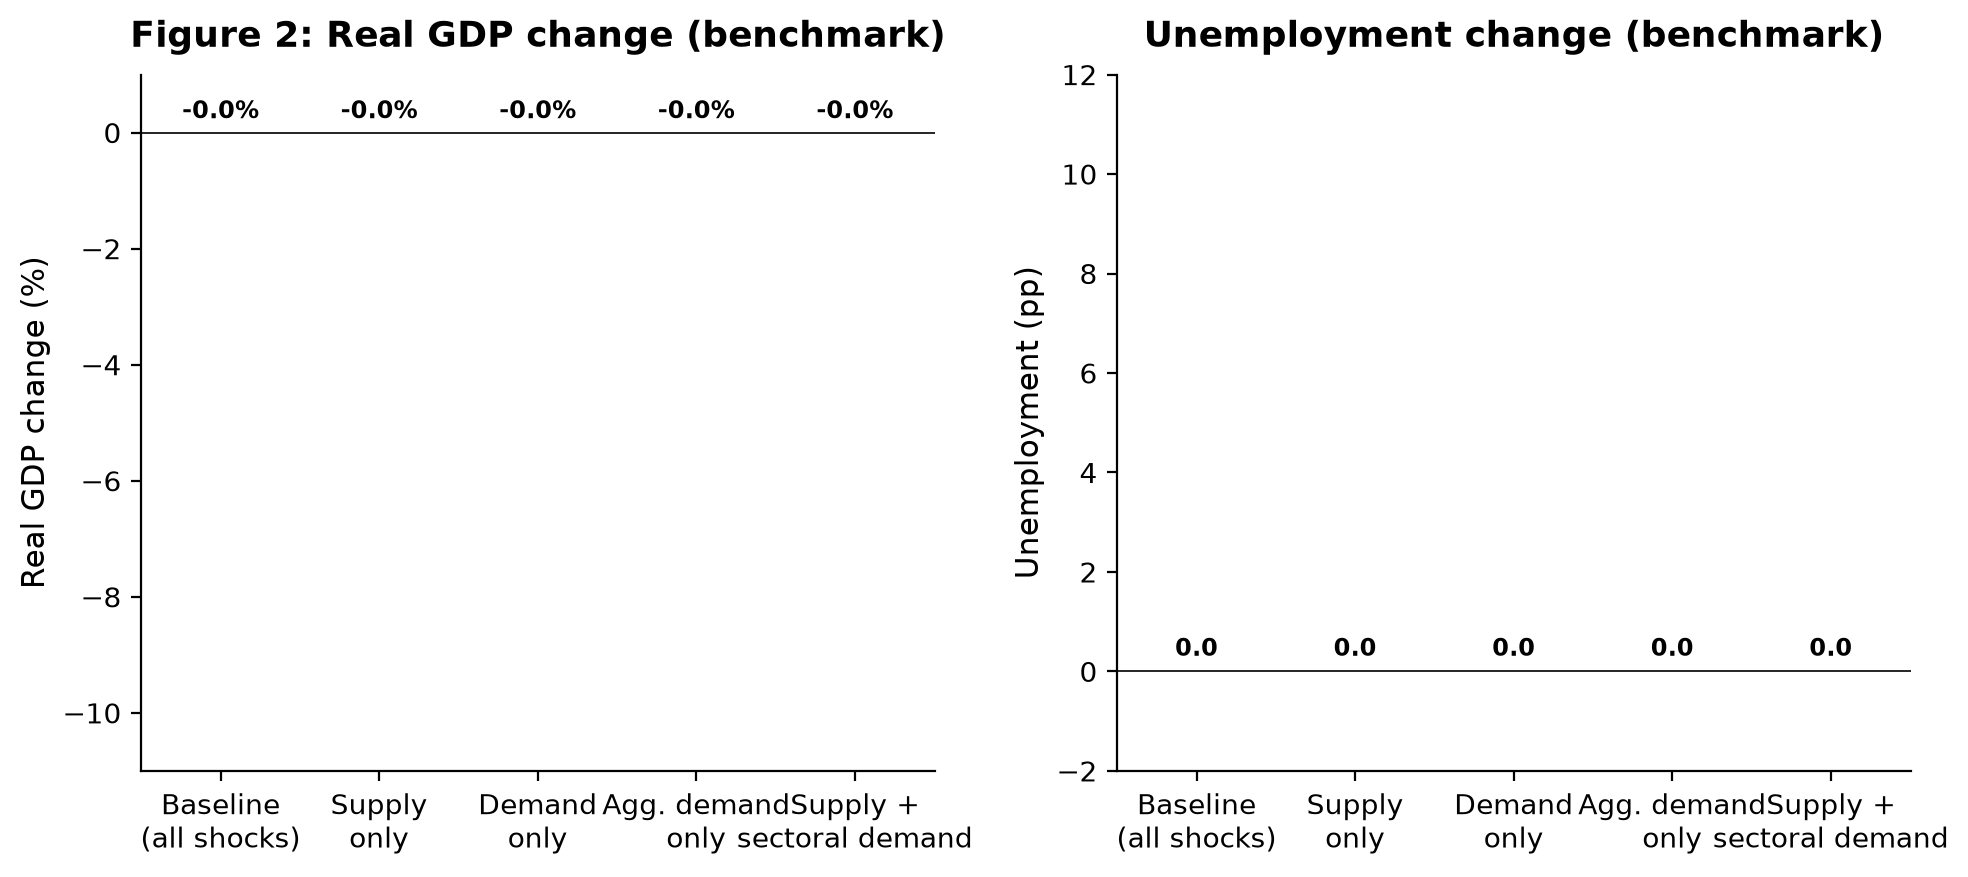
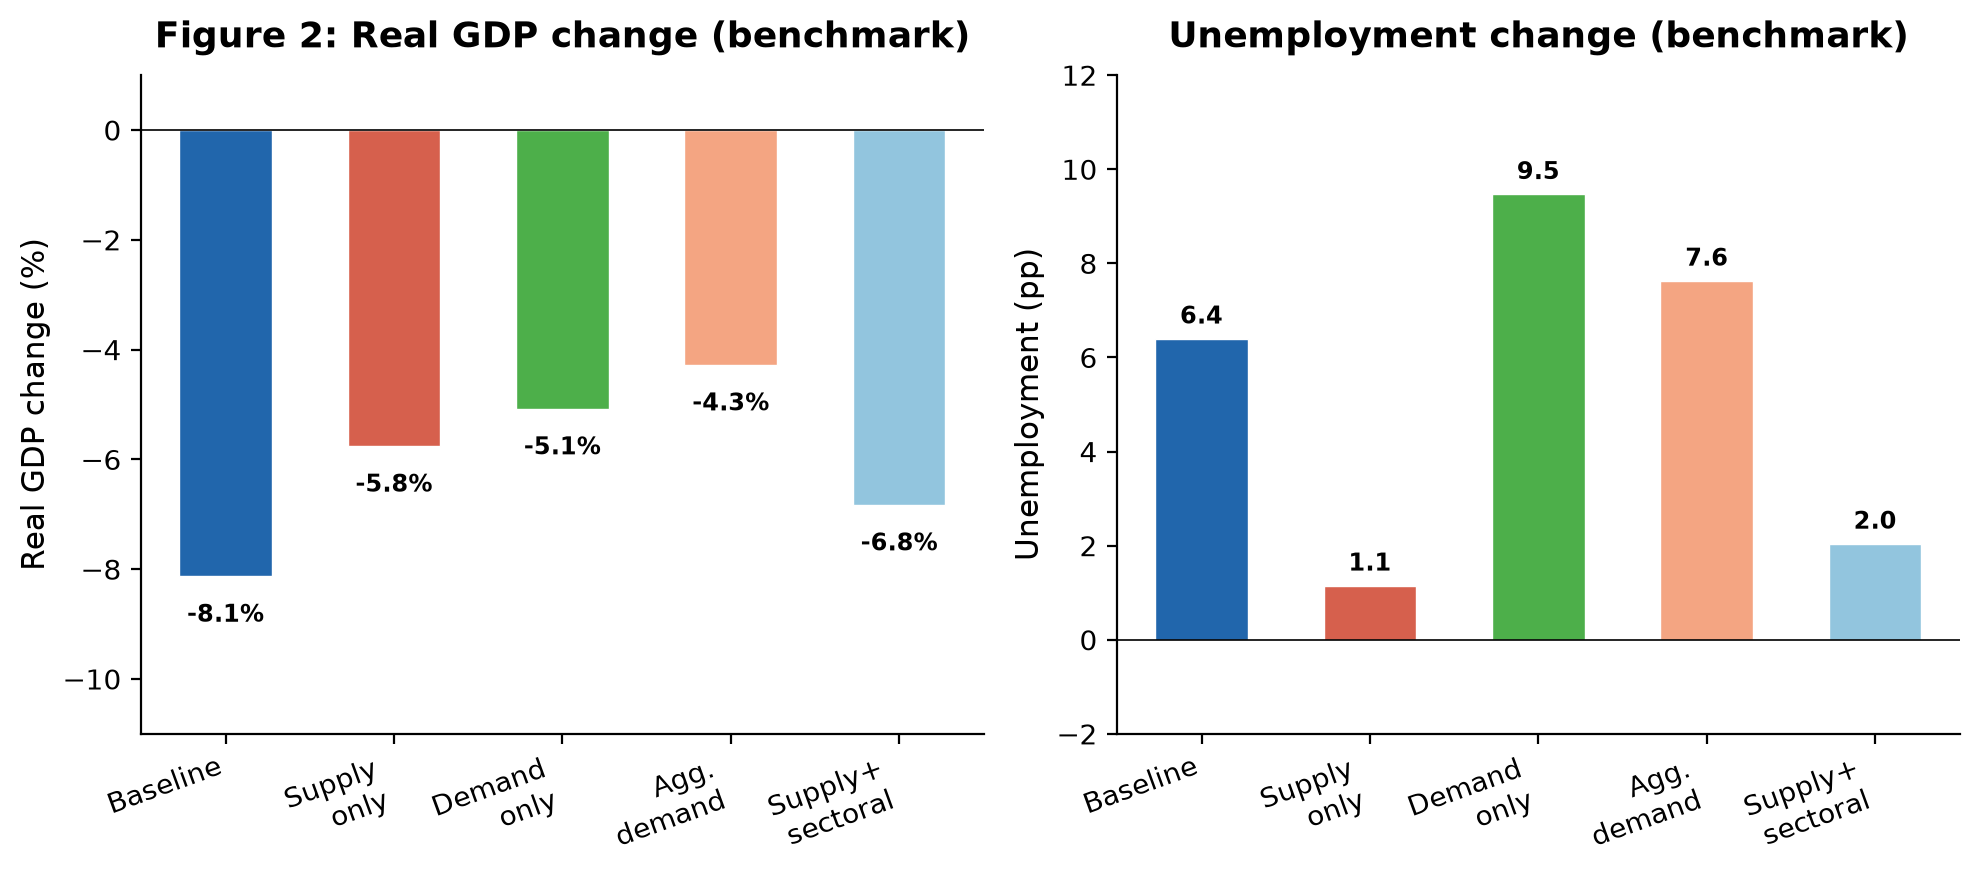
final steps

diff --git a/bf_replication2/src/generate_figures.py b/bf_replication2/src/generate_figures.py
@@ -45,8 +45,8 @@ summary_loop1 = pd.read_csv(DATA / 'summary_loop1.csv')
 summary_htm   = pd.read_csv(DATA / 'summary_loop2_htm.csv')
 baseline      = pd.read_csv(DATA / 'baseline_fit.csv')
 
-SHOCK_LABELS = ['Baseline\n(all shocks)', 'Supply\nonly', 'Demand\nonly',
-                'Agg. demand\nonly', 'Supply +\nsectoral demand']
+SHOCK_LABELS = ['Baseline', 'Supply\nonly', 'Demand\nonly',
+                'Agg.\ndemand', 'Supply+\nsectoral']
 
 print("✓ Data loaded")
 print(f"  Loop1: {summary_loop1.shape[0]} shock types")
@@ -80,28 +80,30 @@ def style_bar_ax(ax, title, ylabel='Real GDP change (%)', ylim=None):
 def fig2_benchmark():
     fig, (ax1, ax2) = plt.subplots(1, 2, figsize=(10, 4.5))
     
-    rgdp = summary_loop1['RGDP_benchmark'].values * -1  # back to +ve loss
+    rgdp = summary_loop1['RGDP_benchmark'].values  # negative = decline
     unemp = summary_loop1['Unemp_benchmark'].values
     
     x = np.arange(5)
     width = 0.55
     
-    # RGDP bar chart
+    # RGDP bar chart (negative = decline, faithful to B&F)
     bars = ax1.bar(x, rgdp, width, color=PALETTE, edgecolor='white', linewidth=0.5)
     ax1.set_xticks(x)
-    ax1.set_xticklabels(SHOCK_LABELS, fontsize=9)
+    ax1.set_xticklabels(SHOCK_LABELS, fontsize=9, rotation=20, ha='right')
     style_bar_ax(ax1, 'Figure 2: Real GDP change (benchmark)', ylim=(-11, 1))
     
-    # Value labels on bars
+    # Value labels on bars (sign-aware: below tip for declines)
     for bar, val in zip(bars, rgdp):
-        ax1.text(bar.get_x() + bar.get_width()/2,
-                bar.get_height() + 0.15,
-                f'{val:.1f}%', ha='center', va='bottom', fontsize=8.5, fontweight='bold')
+        h = bar.get_height()
+        off = 0.15 if h >= 0 else -0.5
+        va = 'bottom' if h >= 0 else 'top'
+        ax1.text(bar.get_x() + bar.get_width()/2, h + off,
+                f'{val:.1f}%', ha='center', va=va, fontsize=8.5, fontweight='bold')
     
     # Unemployment chart
     ax2.bar(x, unemp, width, color=PALETTE, edgecolor='white', linewidth=0.5)
     ax2.set_xticks(x)
-    ax2.set_xticklabels(SHOCK_LABELS, fontsize=9)
+    ax2.set_xticklabels(SHOCK_LABELS, fontsize=9, rotation=20, ha='right')
     style_bar_ax(ax2, 'Unemployment change (benchmark)',
                  ylabel='Unemployment (pp)', ylim=(-2, 12))
     for i, v in enumerate(unemp):
@@ -119,7 +121,7 @@ def fig2_benchmark():
 def fig3_cd():
     fig, (ax1, ax2) = plt.subplots(1, 2, figsize=(10, 4.5))
     
-    rgdp = summary_loop1['RGDP_cd'].values * -1
+    rgdp = summary_loop1['RGDP_cd'].values  # negative = decline
     unemp = summary_loop1['Unemp_cd'].values
     
     x = np.arange(5)
@@ -127,18 +129,20 @@ def fig3_cd():
     
     bars = ax1.bar(x, rgdp, width, color=PALETTE, edgecolor='white', linewidth=0.5)
     ax1.set_xticks(x)
-    ax1.set_xticklabels(SHOCK_LABELS, fontsize=9)
+    ax1.set_xticklabels(SHOCK_LABELS, fontsize=9, rotation=20, ha='right')
     style_bar_ax(ax1, 'Figure 3: Real GDP change (Cobb–Douglas)', ylim=(-11, 1))
     for bar, val in zip(bars, rgdp):
-        ax1.text(bar.get_x() + bar.get_width()/2,
-                bar.get_height() + 0.15,
-                f'{val:.1f}%', ha='center', va='bottom', fontsize=8.5, fontweight='bold')
+        h = bar.get_height()
+        off = 0.15 if h >= 0 else -0.5
+        va = 'bottom' if h >= 0 else 'top'
+        ax1.text(bar.get_x() + bar.get_width()/2, h + off,
+                f'{val:.1f}%', ha='center', va=va, fontsize=8.5, fontweight='bold')
     
     # Handle negative zero
     unemp_display = np.where(np.abs(unemp) < 0.01, 0.0, unemp)
     ax2.bar(x, unemp_display, width, color=PALETTE, edgecolor='white', linewidth=0.5)
     ax2.set_xticks(x)
-    ax2.set_xticklabels(SHOCK_LABELS, fontsize=9)
+    ax2.set_xticklabels(SHOCK_LABELS, fontsize=9, rotation=20, ha='right')
     style_bar_ax(ax2, 'Unemployment change (Cobb–Douglas)',
                  ylabel='Unemployment (pp)', ylim=(-2, 14))
     for i, v in enumerate(unemp_display):
@@ -384,8 +388,8 @@ def fig_combined():
     """Side-by-side comparison of benchmark vs CD across shock types."""
     fig, ax = plt.subplots(figsize=(9, 5))
     
-    rgdp_b = summary_loop1['RGDP_benchmark'].values * -1
-    rgdp_c = summary_loop1['RGDP_cd'].values * -1
+    rgdp_b = summary_loop1['RGDP_benchmark'].values  # negative = decline
+    rgdp_c = summary_loop1['RGDP_cd'].values
     
     x = np.arange(5)
     width = 0.35
@@ -407,12 +411,17 @@ def fig_combined():
     ax.tick_params(labelsize=10)
     ax.set_ylim(-11, 1)
     
-    # Value labels
+    # Value labels (sign-aware: below tip for declines)
     for i in range(5):
-        ax.text(i - width/2, rgdp_b[i] + 0.15, f'{rgdp_b[i]:.1f}%',
-               ha='center', va='bottom', fontsize=7.5, fontweight='bold', color=BLUE)
-        ax.text(i + width/2, rgdp_c[i] + 0.15, f'{rgdp_c[i]:.1f}%',
-               ha='center', va='bottom', fontsize=7.5, fontweight='bold', color=RED)
+        hb, hc = rgdp_b[i], rgdp_c[i]
+        ob = 0.15 if hb >= 0 else -0.5
+        oc = 0.15 if hc >= 0 else -0.5
+        vb = 'bottom' if hb >= 0 else 'top'
+        vc = 'bottom' if hc >= 0 else 'top'
+        ax.text(i - width/2, hb + ob, f'{hb:.1f}%',
+               ha='center', va=vb, fontsize=7.5, fontweight='bold', color=BLUE)
+        ax.text(i + width/2, hc + oc, f'{hc:.1f}%',
+               ha='center', va=vc, fontsize=7.5, fontweight='bold', color=RED)
     
     plt.tight_layout()
     path = FIGS / 'fig_combined.png'
